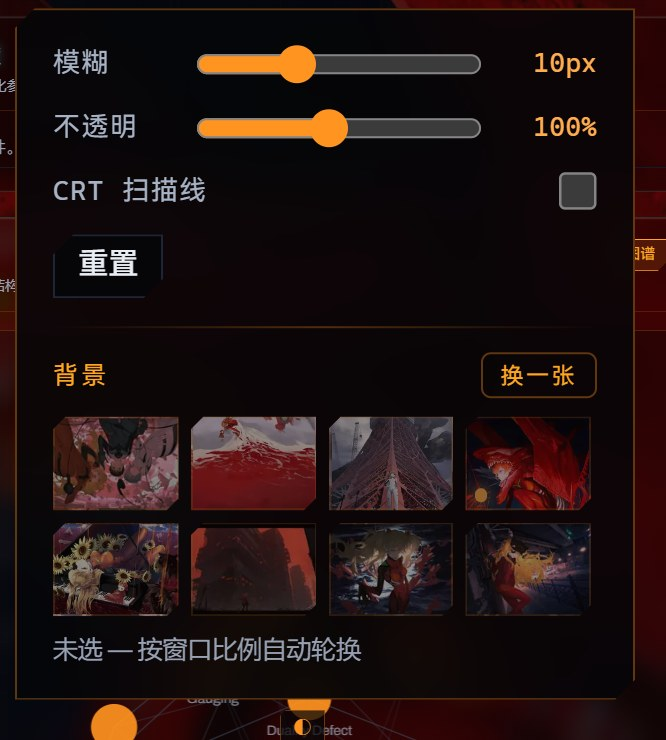
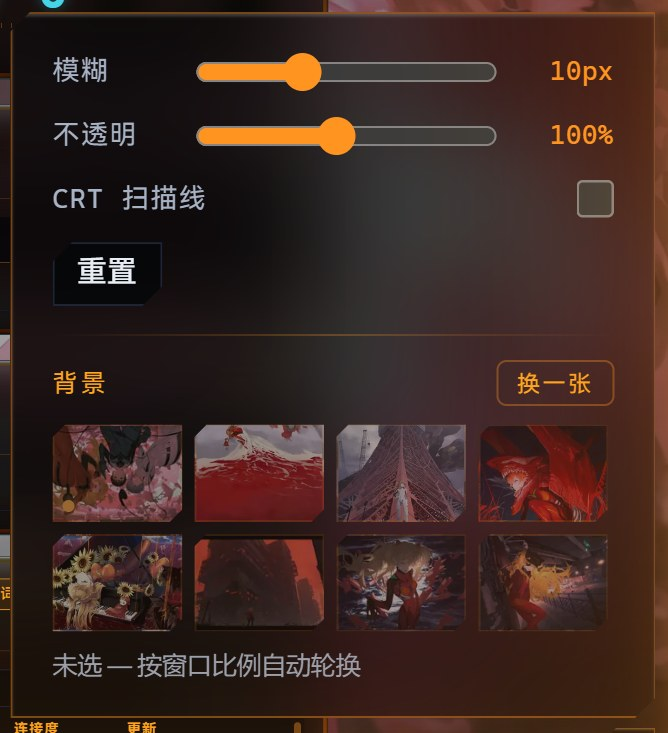
docs: 重拍六张 WebUI 截图,下载量徽章改走 pepy
截图还是 v1.16.0 之前的旧材质,而 README 里那张正好标着「液态玻璃」——头条讲的
就是把它重做了,图却是旧的。六张全部按 v1.16.2 重拍:MAGI 红/蓝、液态玻璃、知识
图谱、卡片预览、◐ 校准器。顺带压了一遍,总重 805KB -> 604KB。

下载量徽章此前是 img.shields.io/pypi/dm,shields 要代理 pypistats 取数,那条上游
经常限流,徽章就显示 "rate limited by upstream service"。改用 static.pepy.tech 的
personalized-badge,由 pepy 直接出图,不经 shields 的共享代理。

**注意数字会变**:shields/pypistats 默认**不含镜像**(3.7k/月),pepy **含镜像**
(12k/月)。两个都是真实口径,但 README 上的数字会跳约 3 倍。要保守口径就改回
shields,代价是继续偶发限流。

README 有一份打包副本(src/magi/docs/readme.*.md),test_launch_directory 会盯着
两边一致——改完 README 必须一起 copy,否则测试直接红。

Claude-Session: https://claude.ai/code/session_01ALBkTRB9Bi52CQMPHJpwoX

diff --git a/README.md b/README.md
@@ -3,7 +3,7 @@
 *[中文](README.md) | [English](README_en.md)*
 
 [![PyPI](https://img.shields.io/pypi/v/magi-research?label=PyPI)](https://pypi.org/project/magi-research/)
-[![下载量](https://img.shields.io/pypi/dm/magi-research?label=%E4%B8%8B%E8%BD%BD%2F%E6%9C%88&cacheSeconds=86400)](https://pypistats.org/packages/magi-research)
+[![下载量](https://static.pepy.tech/personalized-badge/magi-research?period=month&units=abbreviation&left_color=grey&right_color=blue&left_text=%E4%B8%8B%E8%BD%BD%2F%E6%9C%88)](https://pepy.tech/project/magi-research)
 [![Python](https://img.shields.io/pypi/pyversions/magi-research)](https://pypi.org/project/magi-research/)
 [![License](https://img.shields.io/pypi/l/magi-research)](LICENSE)
 

diff --git a/src/magi/docs/readme.zh.md b/src/magi/docs/readme.zh.md
@@ -3,7 +3,7 @@
 *[中文](README.md) | [English](README_en.md)*
 
 [![PyPI](https://img.shields.io/pypi/v/magi-research?label=PyPI)](https://pypi.org/project/magi-research/)
-[![下载量](https://img.shields.io/pypi/dm/magi-research?label=%E4%B8%8B%E8%BD%BD%2F%E6%9C%88&cacheSeconds=86400)](https://pypistats.org/packages/magi-research)
+[![下载量](https://static.pepy.tech/personalized-badge/magi-research?period=month&units=abbreviation&left_color=grey&right_color=blue&left_text=%E4%B8%8B%E8%BD%BD%2F%E6%9C%88)](https://pepy.tech/project/magi-research)
 [![Python](https://img.shields.io/pypi/pyversions/magi-research)](https://pypi.org/project/magi-research/)
 [![License](https://img.shields.io/pypi/l/magi-research)](LICENSE)
 

diff --git a/README_en.md b/README_en.md
@@ -3,7 +3,7 @@
 *[English](README_en.md) | [中文](README.md)*
 
 [![PyPI](https://img.shields.io/pypi/v/magi-research?label=PyPI)](https://pypi.org/project/magi-research/)
-[![Downloads](https://img.shields.io/pypi/dm/magi-research?cacheSeconds=86400)](https://pypistats.org/packages/magi-research)
+[![Downloads](https://static.pepy.tech/personalized-badge/magi-research?period=month&units=abbreviation&left_color=grey&right_color=blue&left_text=downloads/month)](https://pepy.tech/project/magi-research)
 [![Python](https://img.shields.io/pypi/pyversions/magi-research)](https://pypi.org/project/magi-research/)
 [![License](https://img.shields.io/pypi/l/magi-research)](LICENSE)
 

diff --git a/src/magi/docs/readme.en.md b/src/magi/docs/readme.en.md
@@ -3,7 +3,7 @@
 *[English](README_en.md) | [中文](README.md)*
 
 [![PyPI](https://img.shields.io/pypi/v/magi-research?label=PyPI)](https://pypi.org/project/magi-research/)
-[![Downloads](https://img.shields.io/pypi/dm/magi-research?cacheSeconds=86400)](https://pypistats.org/packages/magi-research)
+[![Downloads](https://static.pepy.tech/personalized-badge/magi-research?period=month&units=abbreviation&left_color=grey&right_color=blue&left_text=downloads/month)](https://pepy.tech/project/magi-research)
 [![Python](https://img.shields.io/pypi/pyversions/magi-research)](https://pypi.org/project/magi-research/)
 [![License](https://img.shields.io/pypi/l/magi-research)](LICENSE)
 
